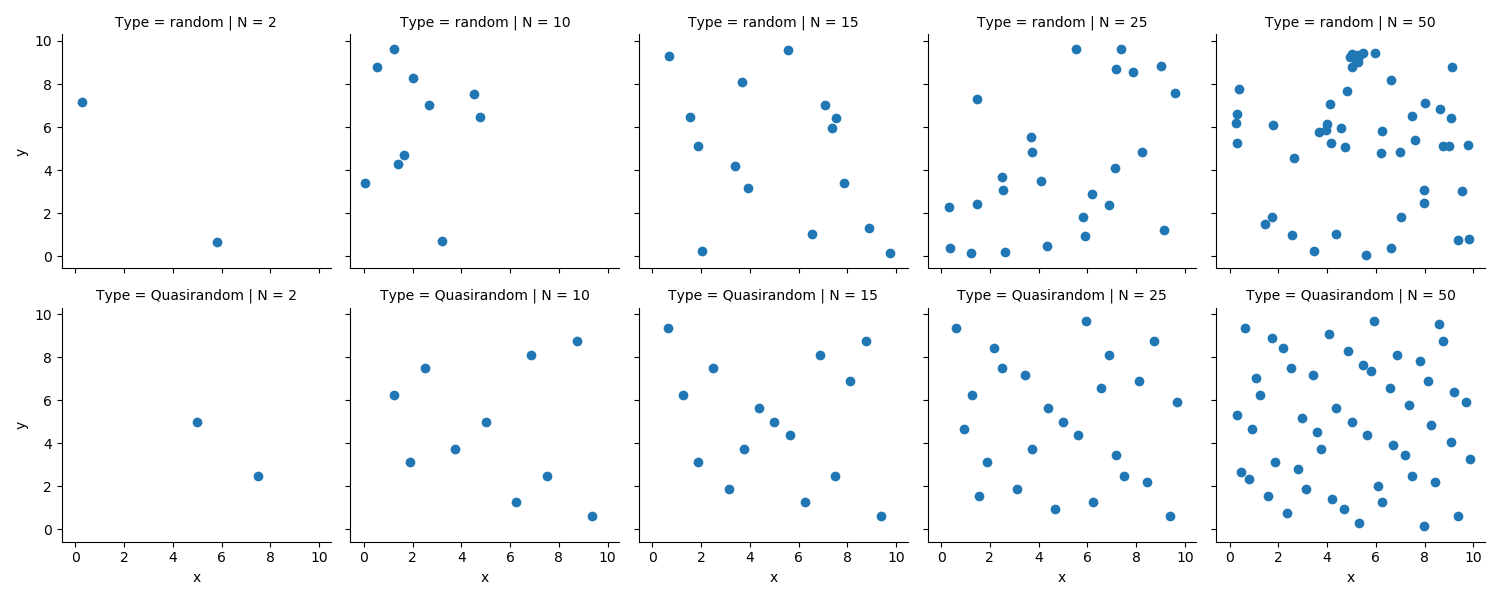
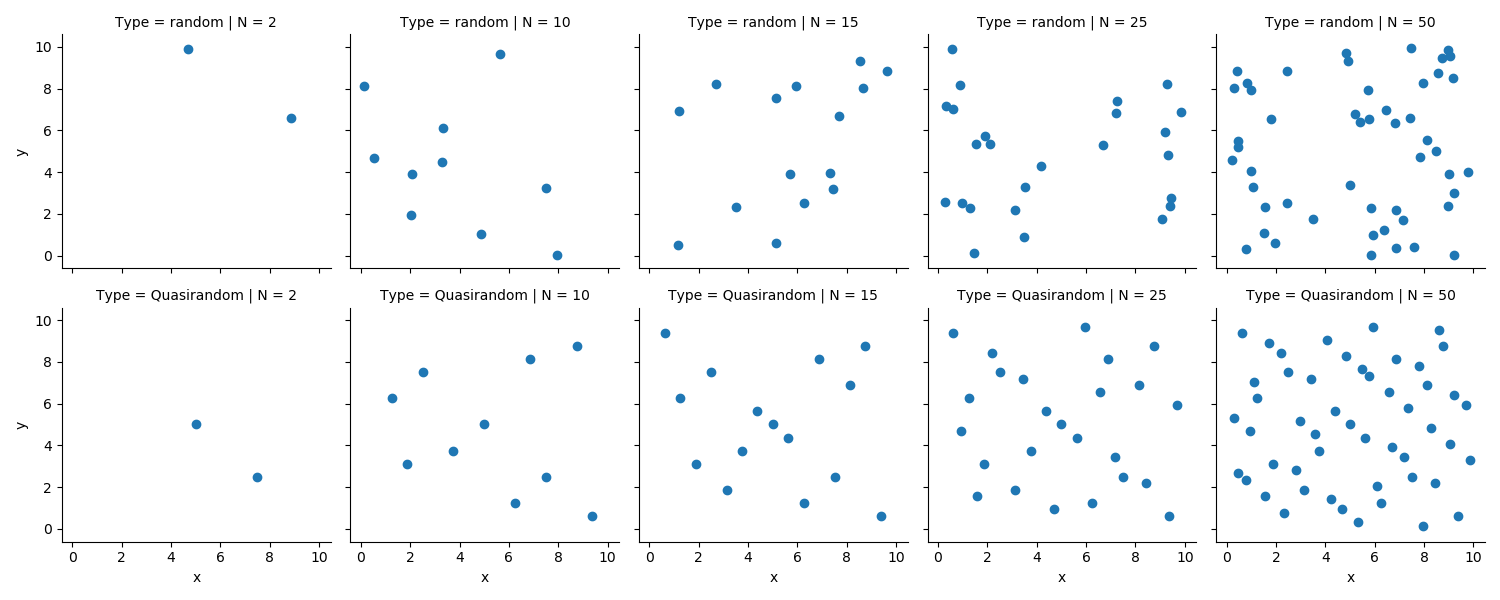
Better Rand the 2D plotting to use uniform sampling.

diff --git a/code/Plotting/Generate2DPlots.py b/code/Plotting/Generate2DPlots.py
@@ -12,8 +12,8 @@ def main():
     i=0;
     for n in N:
         #Generate X, #Generate Y
-        df = pd.DataFrame({'x': 10 * np.random.random_sample(n),
-                           'y': 10 * np.random.random_sample(n),
+        df = pd.DataFrame({'x': 10 * np.random.uniform(0,1,n),
+                           'y': 10 * np.random.uniform(0,1,n),
                            'N': np.repeat(n, n),
                            'Type': 'random'})
         if rand2d is None:
